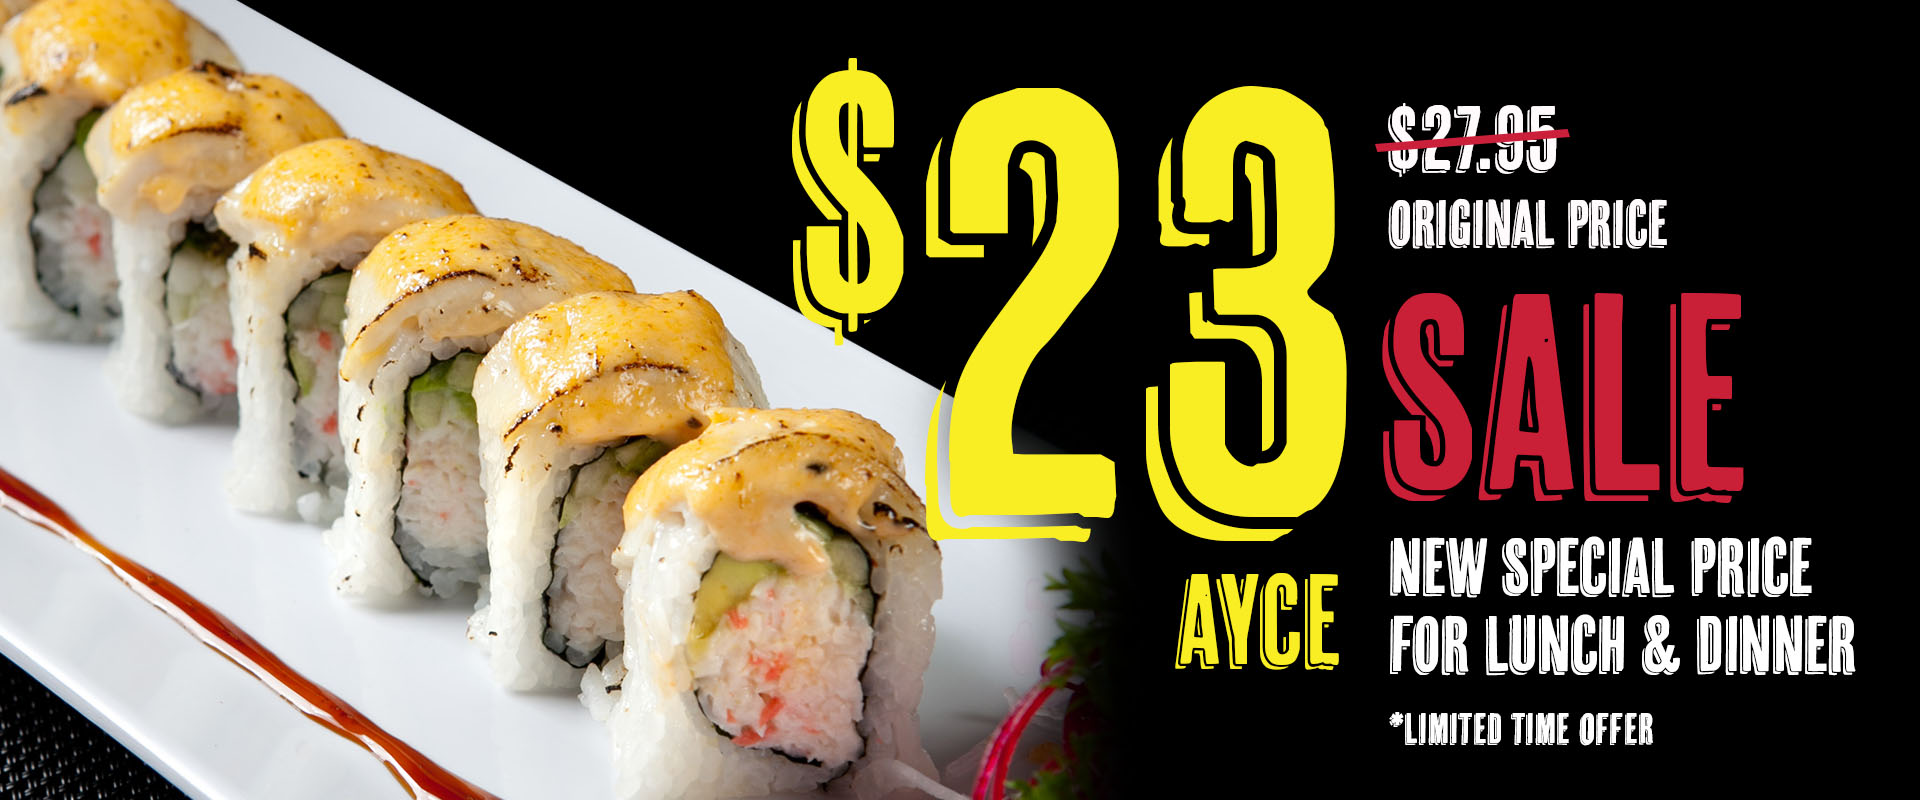
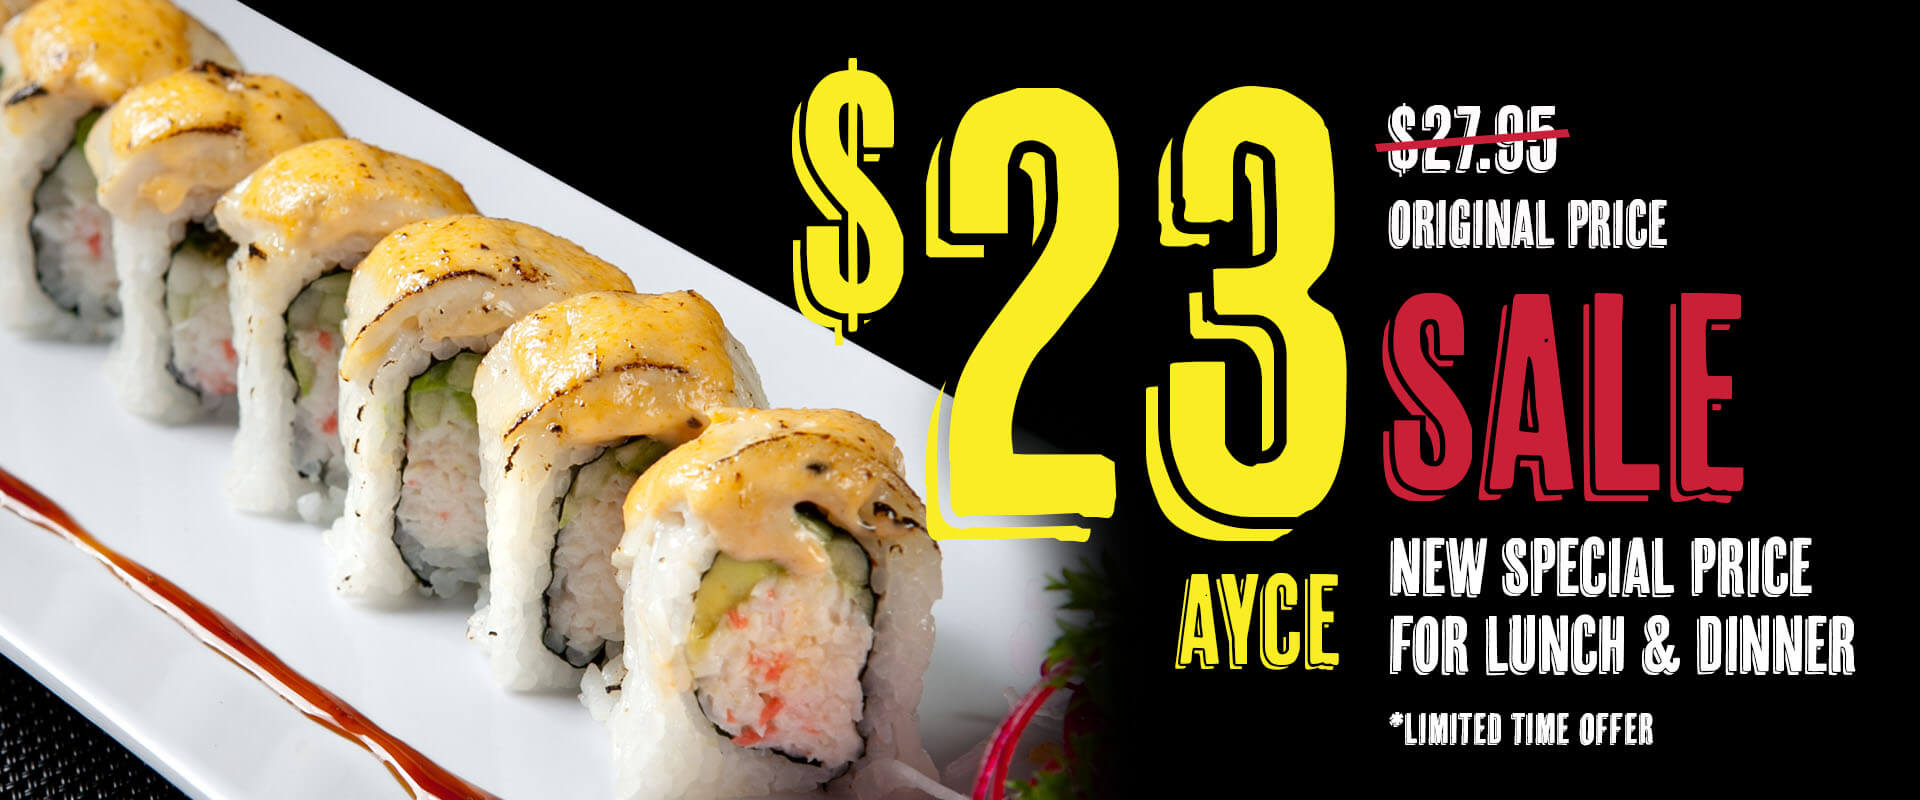
tinified carousel images

diff --git a/nuxt.config.js b/nuxt.config.js
@@ -80,7 +80,12 @@ module.exports = {
     ]
   ],
   optimizedImages: {
-    optimizeImages: true
+    optimizeImagesInDev: false,
+    optimizeImages: true,
+    handleImages: ["jpeg", "png", "svg", "webp", "gif"],
+    mozjpeg: {
+      quality: 75
+    }
   },
 
   /*
